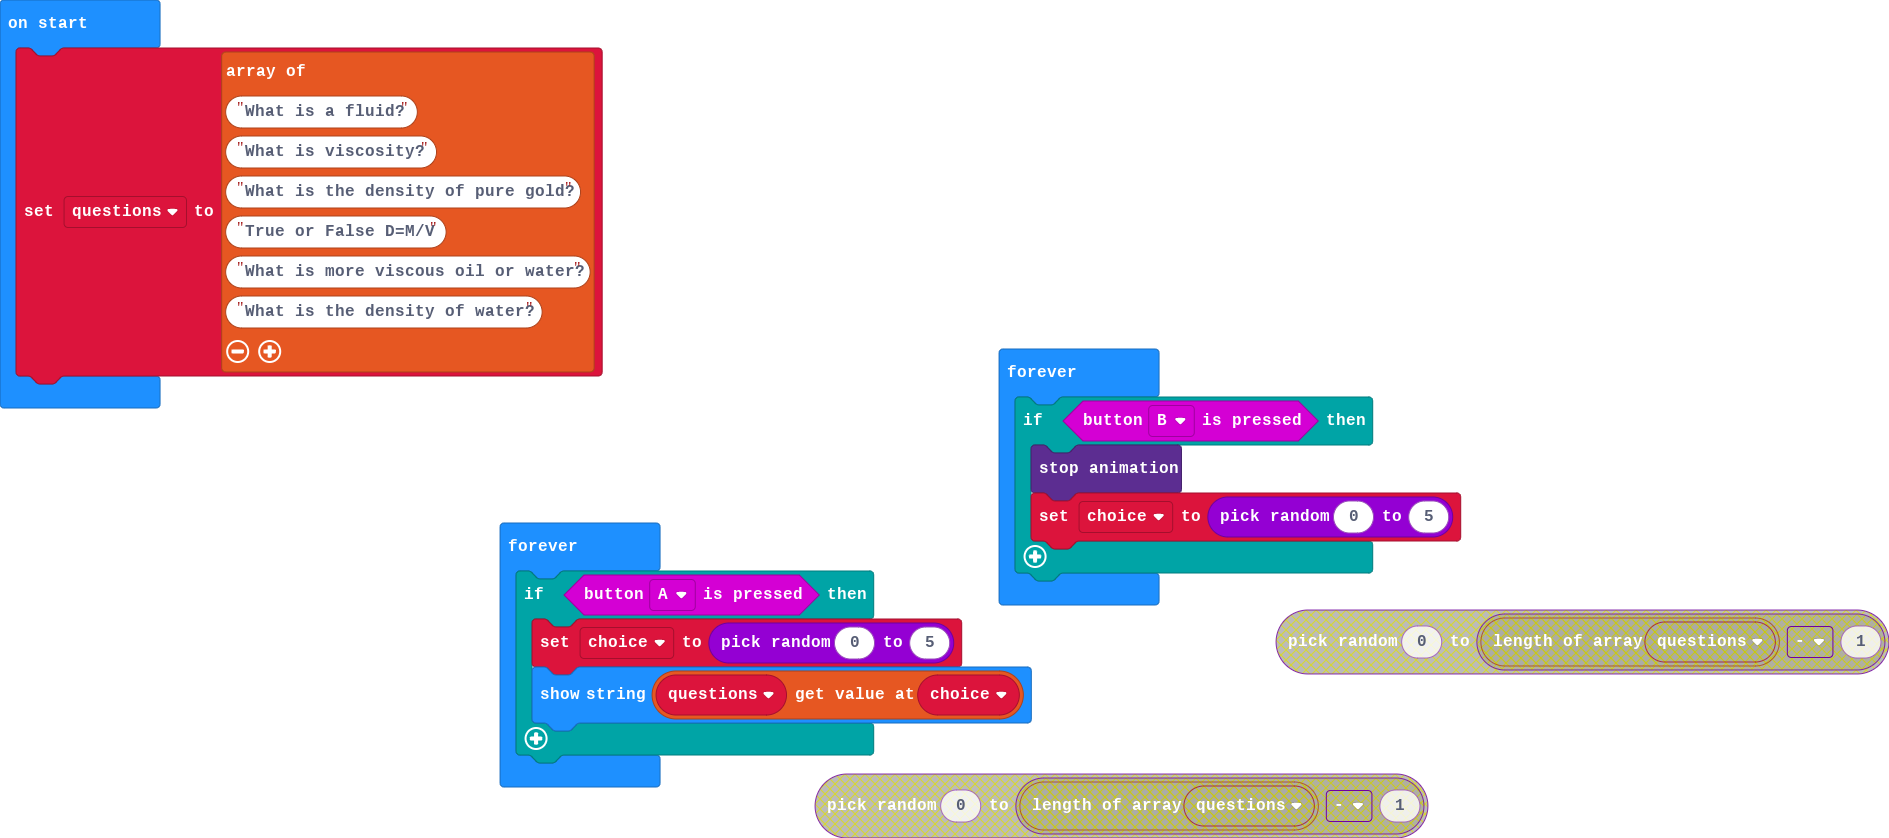
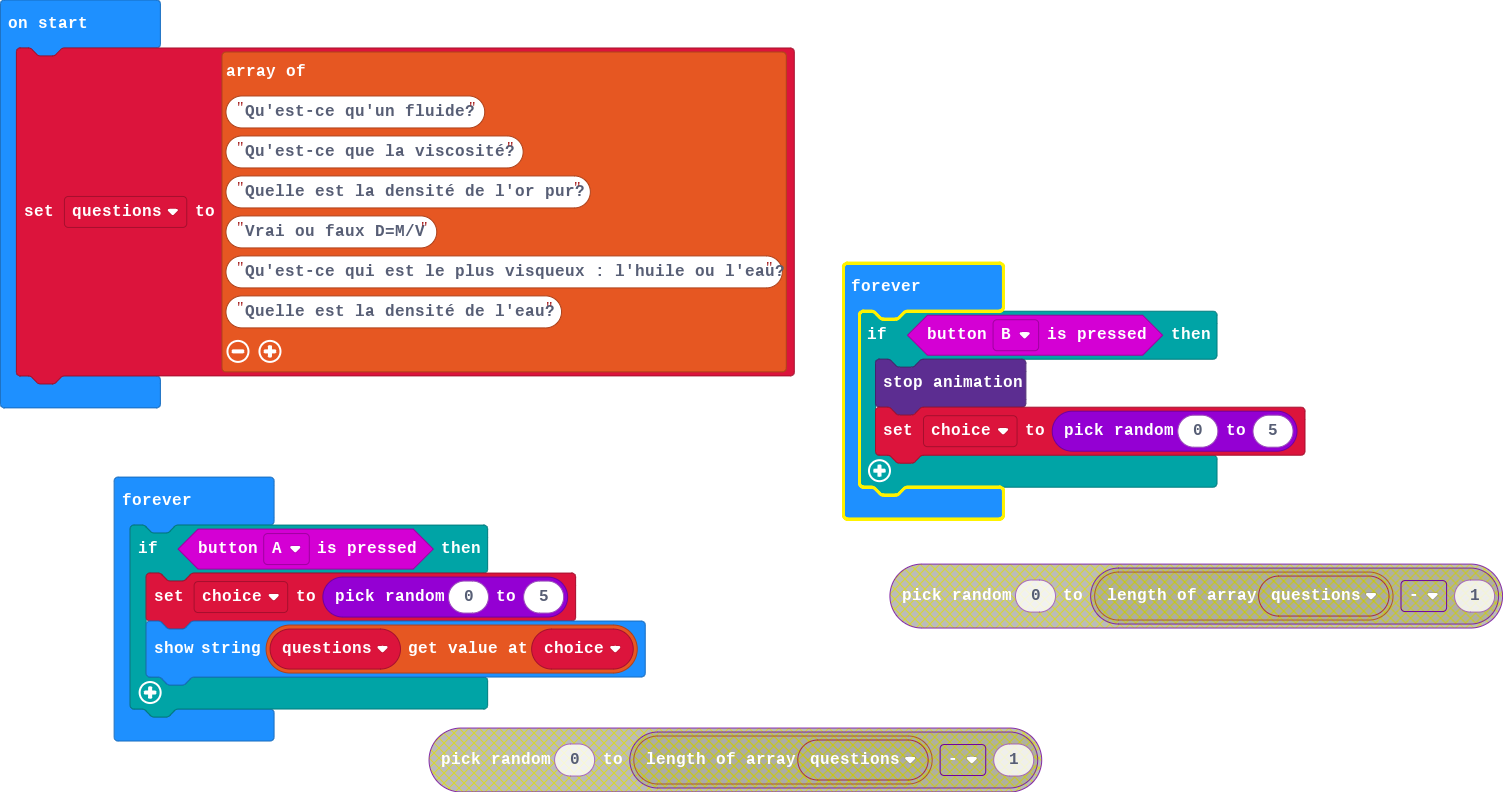
Update pxt.json, main.blocks, main.ts, main.py

diff --git a/main.ts b/main.ts
@@ -1,11 +1,11 @@
 let choice = 0
 let questions = [
-"What is a fluid?",
-"What is viscosity?",
-"What is the density of pure gold?",
-"True or False D=M/V",
-"What is more viscous oil or water?",
-"What is the density of water?"
+"Qu'est-ce qu'un fluide?",
+"Qu'est-ce que la viscosité?",
+"Quelle est la densité de l'or pur?",
+"Vrai ou faux D=M/V",
+"Qu'est-ce qui est le plus visqueux : l'huile ou l'eau?",
+"Quelle est la densité de l'eau?"
 ]
 basic.forever(function () {
     if (input.buttonIsPressed(Button.B)) {

diff --git a/main.py b/main.py
@@ -1,0 +1,21 @@
+choice = 0
+questions = ["What is a fluid?",
+    "What is viscosity?",
+    "What is the density of pure gold?",
+    "True or False D=M/V",
+    "What is more viscous oil or water?",
+    "What is the density of water?"]
+
+def on_forever():
+    global choice
+    if input.button_is_pressed(Button.B):
+        led.stop_animation()
+        choice = randint(0, 5)
+basic.forever(on_forever)
+
+def on_forever2():
+    global choice
+    if input.button_is_pressed(Button.A):
+        choice = randint(0, 5)
+        basic.show_string("" + (questions[choice]))
+basic.forever(on_forever2)
